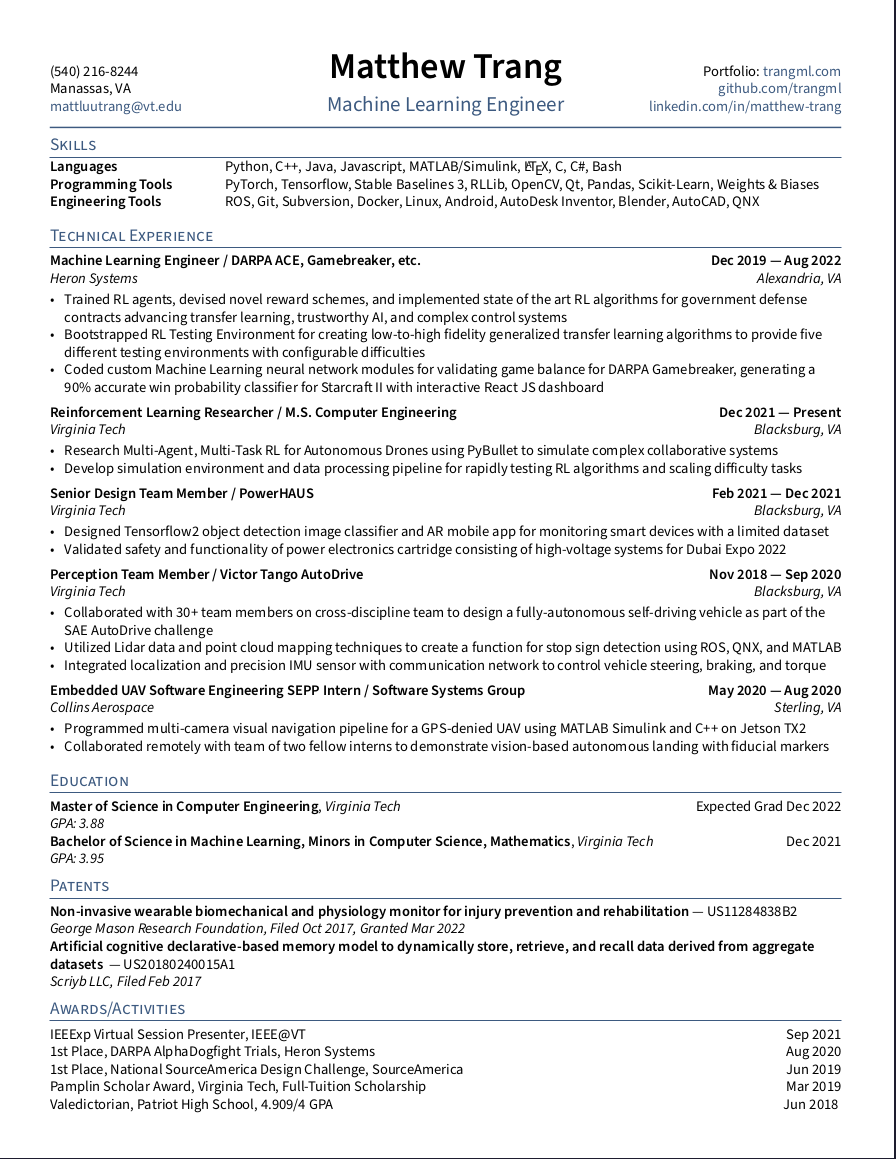
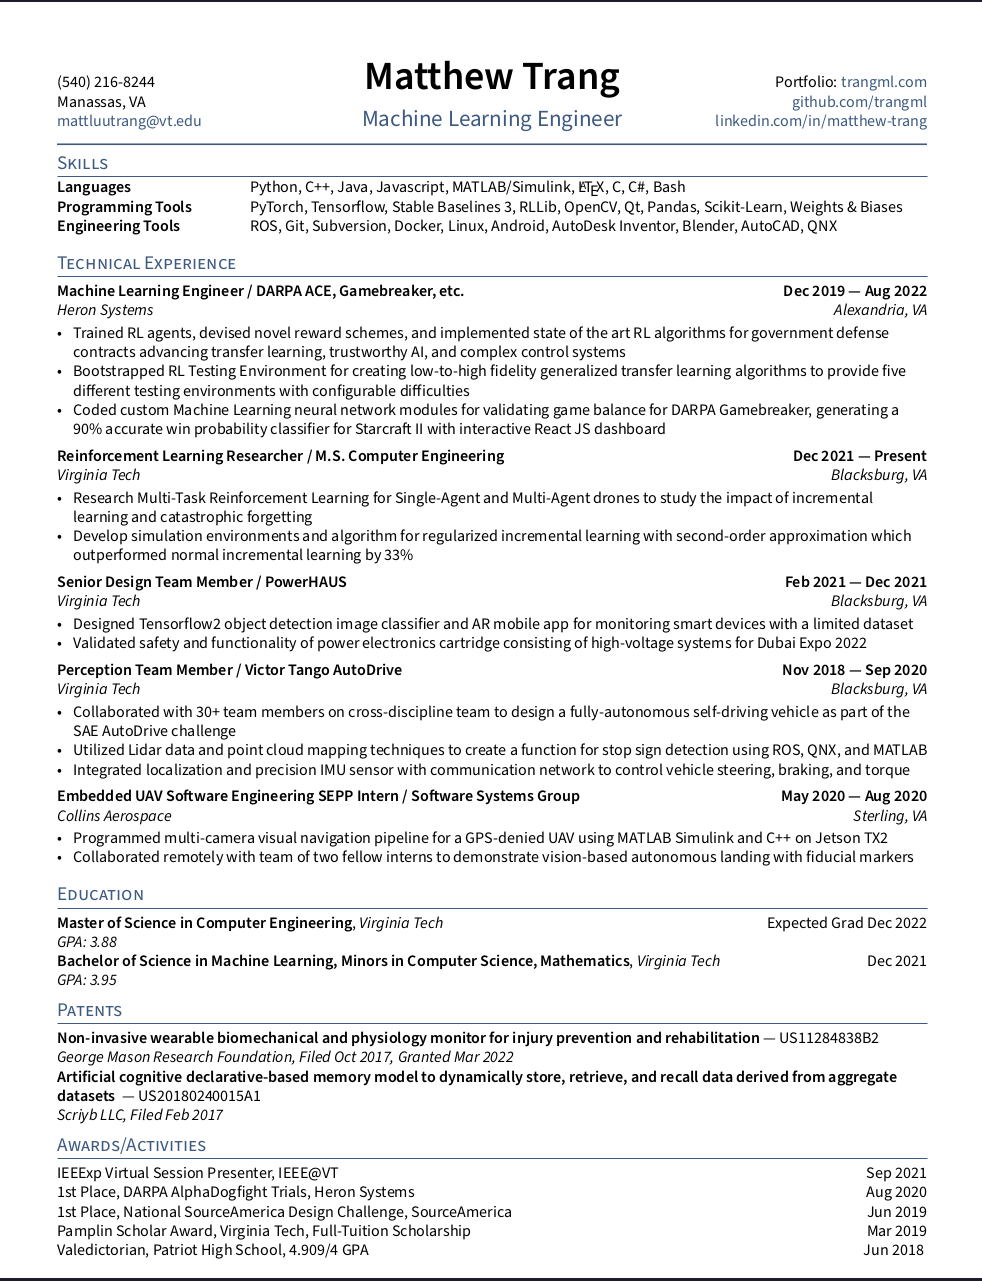
update researched section

Changed region(s): [[0.0, 0.0311, 1.0, 1.0], [0.9688, 0.0, 1.0, 0.0311]]

diff --git a/sections/experience.tex b/sections/experience.tex
@@ -20,10 +20,8 @@
 \subsection{{Reinforcement Learning Researcher / M.S. Computer Engineering  \hfill Dec 2021 --- Present}}
 \subtext{Virginia Tech \hfill Blacksburg, VA}
 \begin{zitemize}
-	\item Research Multi-Agent, Multi-Task RL for Autonomous Drones using PyBullet to simulate
-	complex collaborative systems
-	\item Develop simulation environment and data processing pipeline for rapidly testing RL algorithms and scaling
-    difficulty tasks
+	\item Research Multi-Task Reinforcement Learning for Single-Agent and Multi-Agent drones to study the impact of incremental learning and catastrophic forgetting
+	\item Develop simulation environments and algorithm for regularized incremental learning with second-order approximation which outperformed normal incremental learning by 33\%
 \end{zitemize}
 
 %====================
